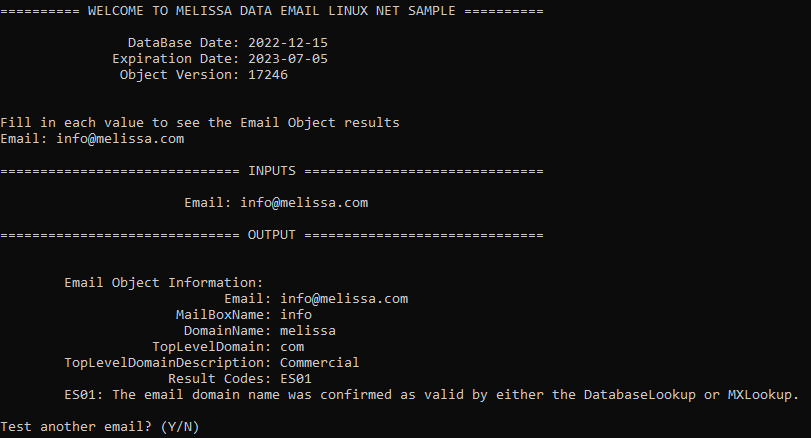
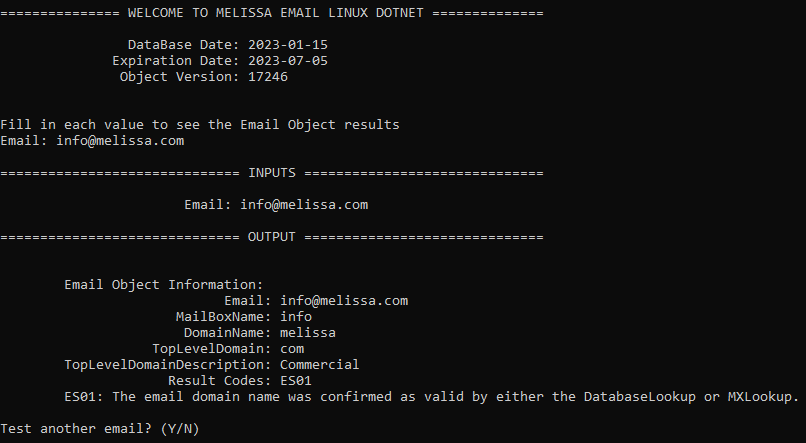
Commit C# Dotnet code for Email Object with release notes

diff --git a/MelissaEmailObjectLinuxDotnet/Program.cs b/MelissaEmailObjectLinuxDotnet/Program.cs
@@ -5,7 +5,7 @@ using System.IO;
 using System.Reflection;
 using MelissaData;
 
-namespace MelissaDataEmailObjectLinuxNETSample
+namespace MelissaEmailObjectLinuxDotnet
 {
   class Program
   {
@@ -50,8 +50,8 @@ namespace MelissaDataEmailObjectLinuxNETSample
 
     static void RunAsConsole(string license, string testEmail, string dataPath)
     {
-      Console.WriteLine("\n\n========== WELCOME TO MELISSA DATA EMAIL LINUX NET SAMPLE ==========\n");
-
+      Console.WriteLine("\n\n=============== WELCOME TO MELISSA EMAIL LINUX DOTNET ==============\n");
+      
       EmailObject emailObject = new EmailObject(license, dataPath);
 
       bool shouldContinueRunning = true;
@@ -131,17 +131,17 @@ namespace MelissaDataEmailObjectLinuxNETSample
           }
         }
       }
-      Console.WriteLine("\n============ THANK YOU FOR USING MELISSA DATA NET OBJECT ===========\n");
+      Console.WriteLine("\n============ THANK YOU FOR USING MELISSA DOTNET OBJECT ===========\n");
     }
   }
 
   class EmailObject
   {
-    // Path to email object data files (.dat, etc)
+    // Path to Email Object data files (.dat, etc)
     string dataFilePath;
     //private readonly string dataFilePath = @"C:\Program Files\Melissa DATA\DQT\Data";
 
-    // Create instance of Melissa Data Email Object
+    // Create instance of Melissa Email Object
     public mdEmail mdEmailObj = new mdEmail();
 
     public EmailObject(string license, string dataPath)
@@ -165,7 +165,7 @@ namespace MelissaDataEmailObjectLinuxNETSample
       Console.WriteLine($"              Expiration Date: {mdEmailObj.GetLicenseStringExpirationDate()}");
 
       /**
-       * This number should match with file properties of the Melissa Data Object binary file.
+       * This number should match with file properties of the Melissa Object binary file.
        * If TEST appears with the build number, there may be a license key issue.
        */
       Console.WriteLine($"               Object Version: {mdEmailObj.GetBuildNumber()}\n");
@@ -174,7 +174,7 @@ namespace MelissaDataEmailObjectLinuxNETSample
     // This will call the lookup function to process the input email as well as generate the result codes
     public void ExecuteObjectAndResultCodes(ref DataContainer data)
     {
-      // These are the configuarble pieces of the email object. We are setting what kind of information we want to be looked up
+      // These are the configuarble pieces of the Email Object. We are setting what kind of information we want to be looked up
       mdEmailObj.SetCacheUse(1);
       mdEmailObj.SetCorrectSyntax(true);
       mdEmailObj.SetDatabaseLookup(true);
@@ -186,8 +186,8 @@ namespace MelissaDataEmailObjectLinuxNETSample
       mdEmailObj.VerifyEmail(data.Email);
       data.ResultCodes = mdEmailObj.GetResults();
 
-      // ResultsCodes explain any issues email object has with the object.
-      // List of result codes for Email object
+      // ResultsCodes explain any issues Email Object has with the object.
+      // List of result codes for Email Object
       // https://wiki.melissadata.com/?title=Result_Code_Details#Email_Object
     }
   }

diff --git a/README.md b/README.md
@@ -1,9 +1,12 @@
-# Melissa Data Email Object Linux Net Sample
-
+# Melissa - Email Object Linux Dotnet
 
 ## Purpose
 
-This is a sample of the Melissa Data Email Object using C#
+This code showcases the Melissa Email Object using C#.
+
+Please feel free to copy or embed this code to your own project. Happy coding!
+
+For the latest Melissa Email Object release notes, please visit: https://releasenotes.melissa.com/on-premise-api/email-object/
 
 The console will ask the user for:
 
@@ -27,7 +30,7 @@ And return
 
 #### libmdEmail.so
 
-This is the code of the Melissa Data Object.
+This is the code of the Melissa Object.
 
 #### Data File(s)
 
@@ -104,19 +107,19 @@ Melissa Updater is a CLI application allowing the user to update their Melissa a
 	- It will handle all of the data download/path and .so file(s) for you. 
 2.  If you already have the latest DQS Release (ZIP), you can find the data file(s) and .so file(s) in there
 	- Use the location of where you copied/installed the data and update the "DataPath" variable in the bash script.
-	- Copy all the .so file(s) mentioned above into the `MelissaDataEmailObjectLinuxNETSample` project folder.
+	- Copy all the .so file(s) mentioned above into the `MelissaEmailObjectLinuxDotnet` project folder.
 
 ----------------------------------------
 
 #### Configure Target Framework
 
-Depending on your target .NET framework, you may need to configure the bash script. In order to do this, open up the `MelissaDataEmailObjectLinuxNETSample.sh` for editing, proceed to the bottom of the script where you will find this section of code.
+Depending on your target .NET framework, you may need to configure the bash script. In order to do this, open up the `MelissaEmailObjectLinuxDotnet.sh` for editing, proceed to the bottom of the script where you will find this section of code.
 
 Default set for .NET 7.0
 ```
-dotnet publish -f="net7.0" -c Release -o $BuildPath MelissaDataEmailObjectLinuxNETSample/MelissaDataEmailObjectLinuxNETSample.csproj
-#dotnet publish -f="net5.0" -c Release -o $BuildPath MelissaDataEmailObjectLinuxNETSample/MelissaDataEmailObjectLinuxNETSample.csproj
-#dotnet publish -f="netcoreapp3.1" -c Release -o $BuildPath MelissaDataEmailObjectLinuxNETSample/MelissaDataEmailObjectLinuxNETSample.csproj
+dotnet publish -f="net7.0" -c Release -o $BuildPath MelissaEmailObjectLinuxDotnet/MelissaEmailObjectLinuxDotnet.csproj
+#dotnet publish -f="net5.0" -c Release -o $BuildPath MelissaEmailObjectLinuxDotnet/MelissaEmailObjectLinuxDotnet.csproj
+#dotnet publish -f="netcoreapp3.1" -c Release -o $BuildPath MelissaEmailObjectLinuxDotnet/MelissaEmailObjectLinuxDotnet.csproj
 ```
 The target framework is specified with the -f flag found in the command line. If you wish to use any version besides .NET 7.0, please uncomment the line containing that framework and comment out the line containing the .NET 7.0 framework (# to comment).
 
@@ -124,7 +127,7 @@ The target framework is specified with the -f flag found in the command line. If
 
 To be able to run the bash script, you must first make it an executable using the command:
 
-`chmod +x MelissaDataEmailObjectLinuxNETSample.sh`
+`chmod +x MelissaEmailObjectLinuxDotnet.sh`
 
 As an indicator, the filename will change colors once it becomes an executable.
 
@@ -135,32 +138,32 @@ Parameters:
  	
   This is convenient when you want to get results for a specific email address in one run instead of testing multiple email addresses in interactive mode.  
 
-- -l or --license (optional): a license string to test the email object
+- -l or --license (optional): a license string to test the Email Object
 
 - -q or --quiet (optional): add to the command if you do not want to get any console output from the Melissa Updater
 
 When you have modified the script to match your data location, let's run the script. There are two modes:
 - Interactive 
 
-	The script will prompt the user for an email address, then use the provided email to test Email object. For example:
+	The script will prompt the user for an email address, then use the provided email to test Email Object. For example:
 	```
-	$ ./MelissaDataEmailObjectLinuxNETSample.sh
+	$ ./MelissaEmailObjectLinuxDotnet.sh
 	```
     For quiet mode:
     ```
-    $ ./MelissaDataEmailObjectLinuxNETSample.sh --quiet
+    $ ./MelissaEmailObjectLinuxDotnet.sh --quiet
     ```
 - Command Line 
 
-	You can pass an email address in ```--email``` parameter and a license string in ```--license``` parameter to test Email object. For example:
+	You can pass an email address in ```--email``` parameter and a license string in ```--license``` parameter to test Email Object. For example:
 	```
-    $ ./MelissaDataEmailObjectLinuxNETSample.sh --email "info@melissa.com"
-    $ ./MelissaDataEmailObjectLinuxNETSample.sh --email "info@melissa.com" --license "<your_license_string>"
+    $ ./MelissaEmailObjectLinuxDotnet.sh --email "info@melissa.com"
+    $ ./MelissaEmailObjectLinuxDotnet.sh --email "info@melissa.com" --license "<your_license_string>"
     ```
 	For quiet mode:
     ```
-    $ ./MelissaDataEmailObjectLinuxNETSample.sh --email "info@melissa.com" --quiet
-    $ ./MelissaDataEmailObjectLinuxNETSample.sh --email "info@melissa.com" --license "<your_license_string>" --quiet
+    $ ./MelissaEmailObjectLinuxDotnet.sh --email "info@melissa.com" --quiet
+    $ ./MelissaEmailObjectLinuxDotnet.sh --email "info@melissa.com" --license "<your_license_string>" --quiet
     ```
 This is the expected output from a successful setup for interactive mode:
 
@@ -168,7 +171,7 @@ This is the expected output from a successful setup for interactive mode:
 
 ## Troubleshooting
 
-Troubleshooting for errors found while running your sample program.
+Troubleshooting for errors found while running your program.
 
 ### C# Errors:
 
@@ -181,8 +184,6 @@ Troubleshooting for errors found while running your sample program.
 
 ## Contact Us
 
-For free technical support, please call us at 800-MELISSA ext. 4
-(800-635-4772 ext. 4) or email us at tech@MelissaData.com.
+For free technical support, please call us at 800-MELISSA ext. 4 (800-635-4772 ext. 4) or email us at tech@melissa.com.
 
-To purchase this product, contact Melissa Data sales department at
-800-MELISSA ext. 3 (800-635-4772 ext. 3).
+To purchase this product, contact the Melissa sales department at 800-MELISSA ext. 3 (800-635-4772 ext. 3).

diff --git a/LICENSE.md b/LICENSE.md
@@ -1,0 +1,21 @@
+MIT License
+
+Copyright (c) Melissa Data Corporation
+
+Permission is hereby granted, free of charge, to any person obtaining a copy
+of this software and associated documentation files (the "Software"), to deal
+in the Software without restriction, including without limitation the rights
+to use, copy, modify, merge, publish, distribute, sublicense, and/or sell
+copies of the Software, and to permit persons to whom the Software is
+furnished to do so, subject to the following conditions:
+
+The above copyright notice and this permission notice shall be included in all
+copies or substantial portions of the Software.
+
+THE SOFTWARE IS PROVIDED "AS IS", WITHOUT WARRANTY OF ANY KIND, EXPRESS OR
+IMPLIED, INCLUDING BUT NOT LIMITED TO THE WARRANTIES OF MERCHANTABILITY,
+FITNESS FOR A PARTICULAR PURPOSE AND NONINFRINGEMENT. IN NO EVENT SHALL THE
+AUTHORS OR COPYRIGHT HOLDERS BE LIABLE FOR ANY CLAIM, DAMAGES OR OTHER
+LIABILITY, WHETHER IN AN ACTION OF CONTRACT, TORT OR OTHERWISE, ARISING FROM,
+OUT OF OR IN CONNECTION WITH THE SOFTWARE OR THE USE OR OTHER DEALINGS IN THE
+SOFTWARE.
